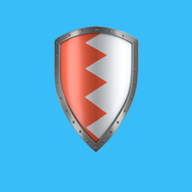
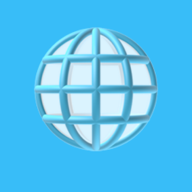
change(forcefield): swap the shield emoji for 🌐
Applied everywhere the game's icon appears: games.js tile icon, its
cosmetics.js meta icon, its own share config, and regenerated favicon
+ PWA icons (192/512) to match.

diff --git a/games/forcefield/index.html b/games/forcefield/index.html
@@ -558,7 +558,7 @@
     });
   }
 
-  function shareMsg() { return KIT.shareText({ score: score, game: T('game.forcefield.title', 'Forcefield'), emoji: '🛡', mode: storeLabel(opts.mode, opts.difficulty) }); }
+  function shareMsg() { return KIT.shareText({ score: score, game: T('game.forcefield.title', 'Forcefield'), emoji: '🌐', mode: storeLabel(opts.mode, opts.difficulty) }); }
 
   function vsBanner() {
     const a = lanes[0].score, b = lanes[1].score, tot = Math.max(1, a + b), tie = a === b;
@@ -585,7 +585,7 @@
       record: { slug: SLUG, mode: storeLabel(opts.mode, opts.difficulty), score: score },
       score: score, best: best, newBest: isBest,
       lines: [dispLabel(opts.mode, opts.difficulty) + ' · ' + T('game.forcefield.deflectedLine', 'Deflected: {n}', { n: hits })],
-      share: { slug: SLUG, accent: '#38bdf8', icon: '🛡', title: T('game.forcefield.title', 'Forcefield'), message: () => shareMsg(), params: () => ({ mode: opts.mode, difficulty: opts.difficulty }) },
+      share: { slug: SLUG, accent: '#38bdf8', icon: '🌐', title: T('game.forcefield.title', 'Forcefield'), message: () => shareMsg(), params: () => ({ mode: opts.mode, difficulty: opts.difficulty }) },
       actions: [{ id: 'again', label: T('game.common.playAgain', 'PLAY AGAIN'), primary: true }, { id: 'menu', label: T('game.common.menu', 'MENU') }],
       onAction: id => { if (id === 'again') startGame(); else if (id === 'menu') toMenu(); } };
     if (dbl) cfg.banner = () => vsBanner();

diff --git a/cosmetics.js b/cosmetics.js
@@ -319,7 +319,7 @@
   add('flappy', 'bird', 'raven',    'Raven',    250, 'Midnight feathers, ancient secrets.', bird('#17181d', '#0c0d11', 'rgba(170,200,255,0.55)'));
   add('flappy', 'bird', 'phoenix',  'Phoenix',  500, 'The aspirational one. Rises from every game over.', bird('#ff8a3a', '#e85a1a', 'rgba(255,140,40,0.85)'));
 
-  // ---- 🛡 Forcefield — bolt colours + planet skins ----
+  // ---- 🌐 Forcefield — bolt colours + planet skins ----
   add('forcefield', 'marker', 'default', 'Classic', 0,  'A clean white bolt.', forcefieldMarker('#eafcff'));
   add('forcefield', 'marker', 'magma',   'Magma',   25, 'A molten-orange bolt.', forcefieldMarker('#ff8a3d'));
   add('forcefield', 'marker', 'lime',    'Lime',    50, 'A zesty green bolt.', forcefieldMarker('#b6ff5c'));
@@ -364,7 +364,7 @@
       'asteroids':      { title: 'Asteroids', icon: '🛸', accent: '#9fe8ff' },
       'asteroids-plus': { title: 'Asteroids+', icon: '☄', accent: '#b98cff' },
       'flappy':         { title: 'Meadow Flyer', icon: '🐤', accent: '#8fd3a6' },
-      'forcefield':          { title: 'Forcefield', icon: '🛡', accent: '#38bdf8' },
+      'forcefield':          { title: 'Forcefield', icon: '🌐', accent: '#38bdf8' },
     },
   };
 })();

diff --git a/games.js b/games.js
@@ -39,7 +39,7 @@ window.GAMES = [
     slug: "forcefield",
     title: "Forcefield",
     blurb: "Slide your atmosphere dome to block the battle station's fire. Timed, shields, or 1–2-player Double.",
-    icon: "🛡",
+    icon: "🌐",
     accent: "#38bdf8",
     tags: ["SKILL", "REFLEX"],
     added: "2026-07-04",
